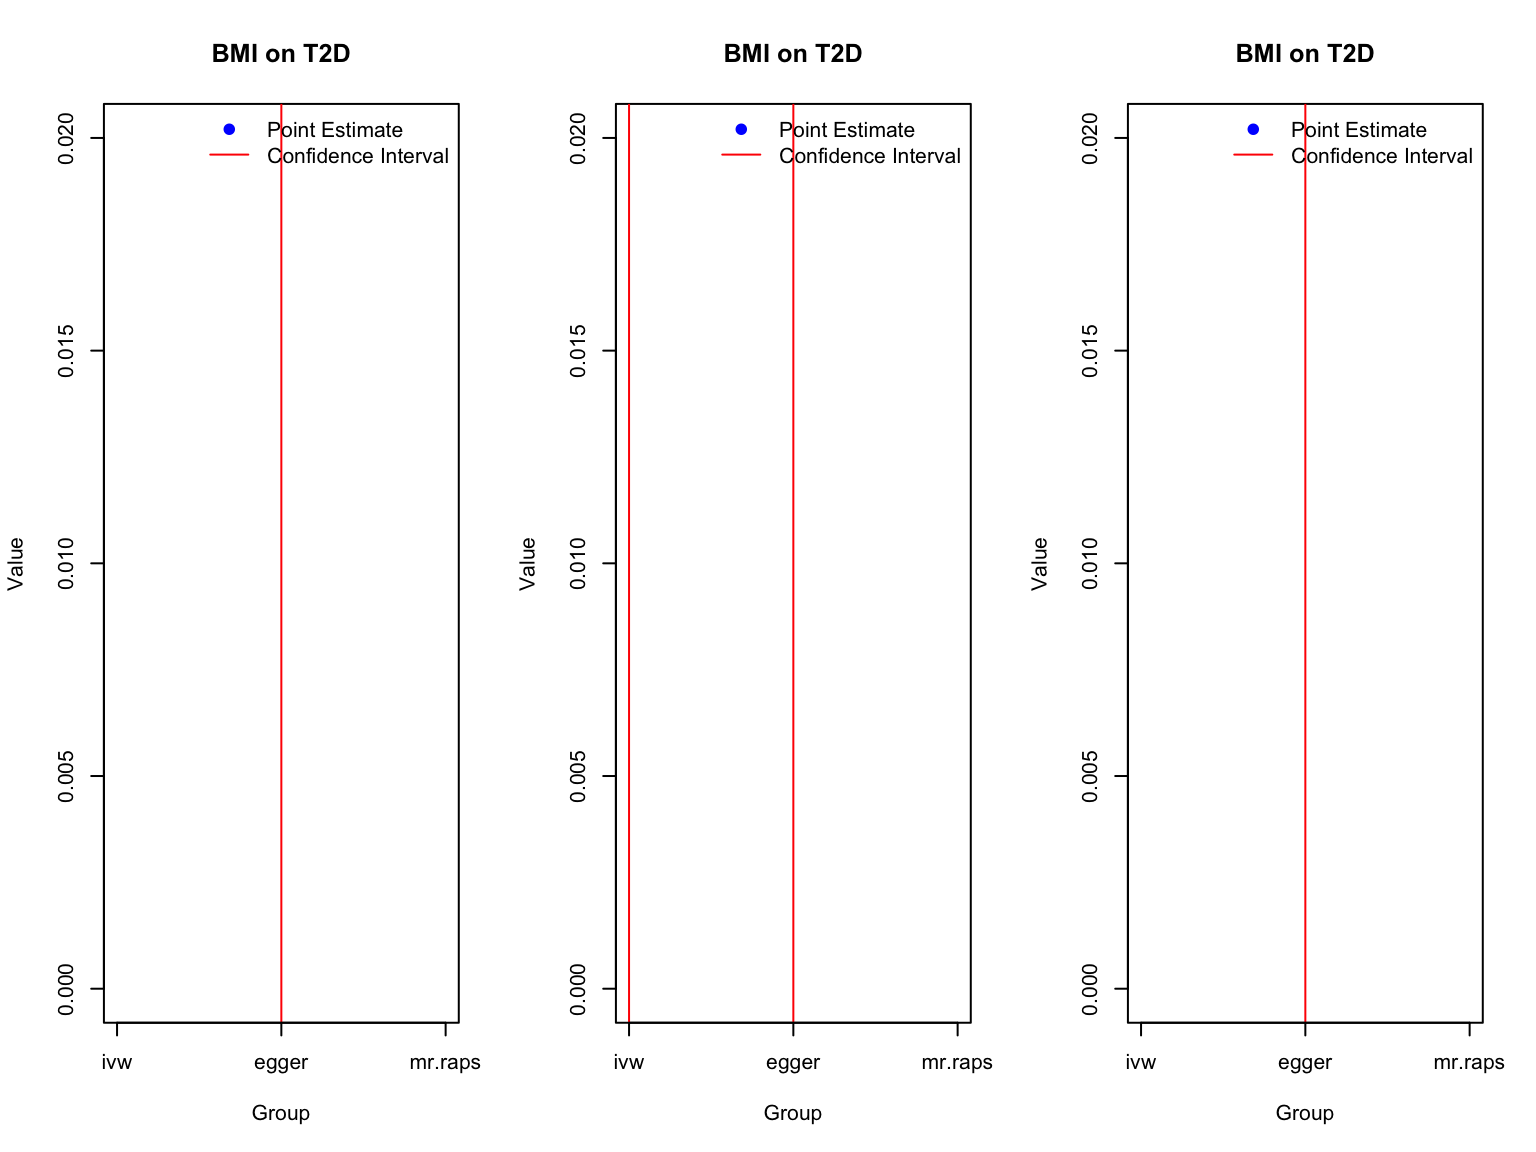
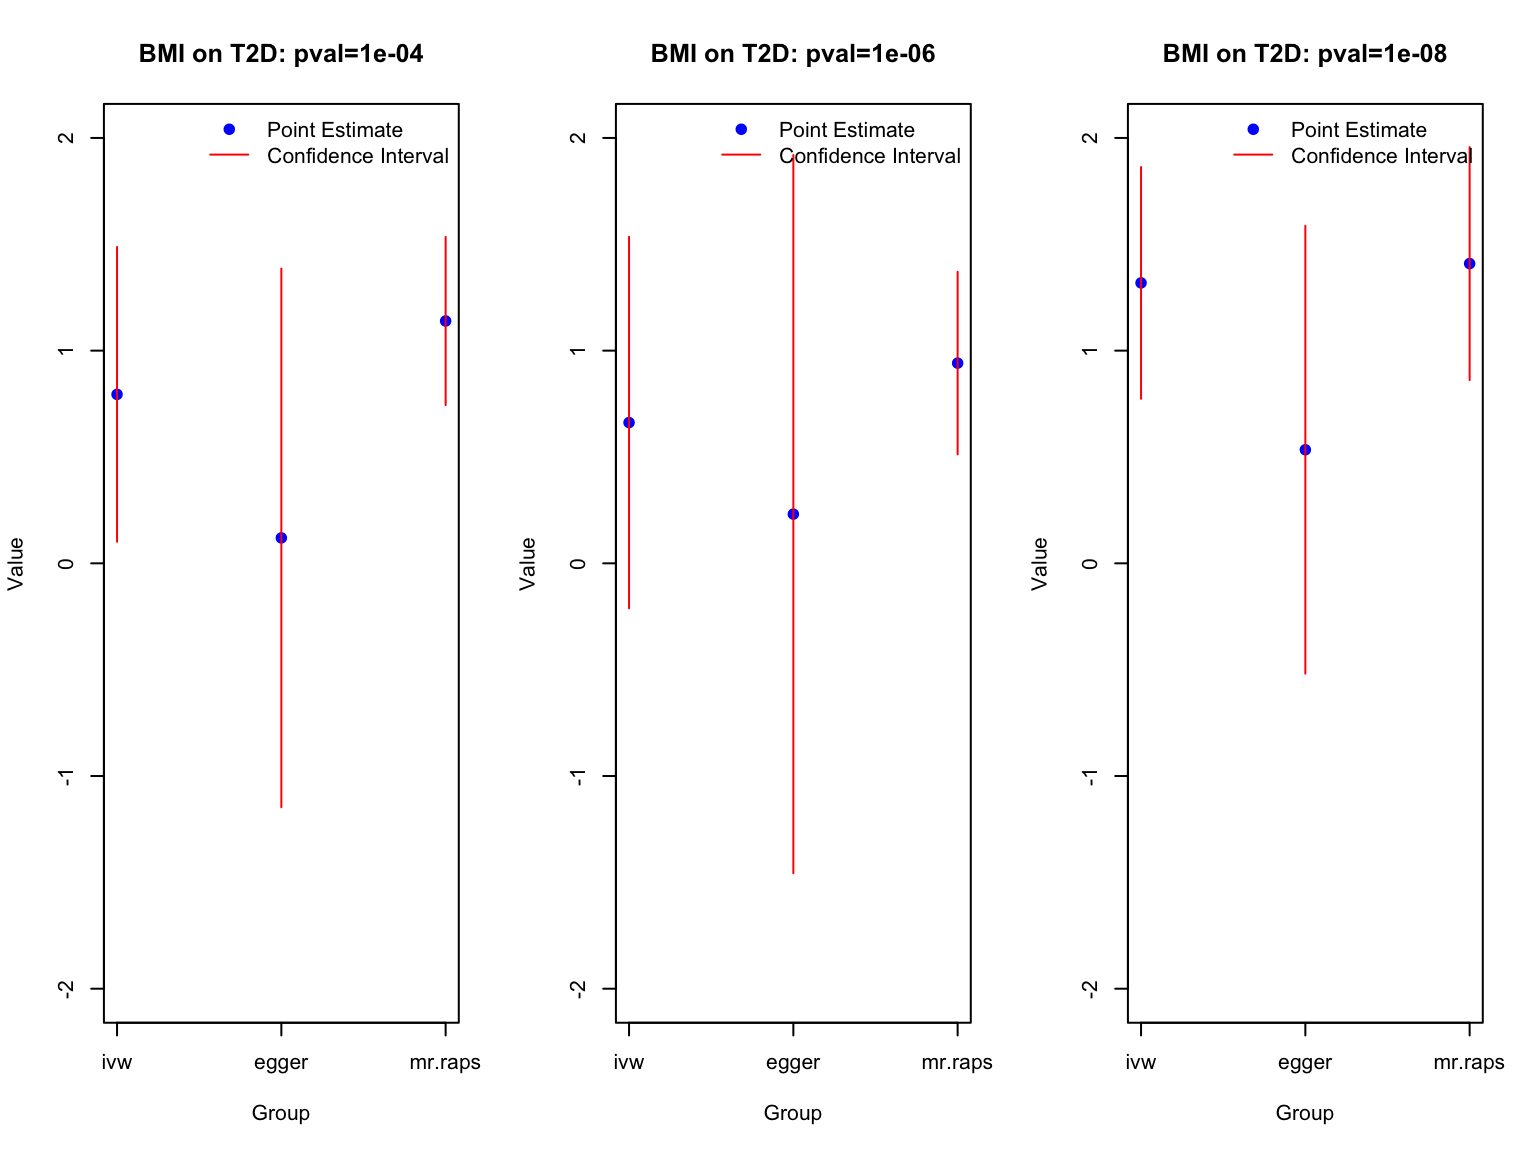
Build site.

diff --git a/docs/real_data_analysis.html b/docs/real_data_analysis.html
@@ -475,16 +475,16 @@ This reproducible <a href="http://rmarkdown.rstudio.com">R Markdown</a> analysis
 <div class="panel panel-default">
 <div class="panel-heading">
 <p class="panel-title">
-<a data-toggle="collapse" data-parent="#workflowr-checks" href="#strongRepositoryversionstrongahrefhttpsgithubcomyunqiyang0215simulationcalibratedmrtree8677c25cf3df336a054d9e6bd81535e5bea09bdbtargetblank8677c25a"> <span class="glyphicon glyphicon-ok text-success" aria-hidden="true"></span> <strong>Repository version:</strong> <a href="https://github.com/yunqiyang0215/simulation-calibrated-mr/tree/8677c25cf3df336a054d9e6bd81535e5bea09bdb" target="_blank">8677c25</a> </a>
+<a data-toggle="collapse" data-parent="#workflowr-checks" href="#strongRepositoryversionstrongahrefhttpsgithubcomyunqiyang0215simulationcalibratedmrtree07bcd641b688b07e79e46eef59ef4c157e38a637targetblank07bcd64a"> <span class="glyphicon glyphicon-ok text-success" aria-hidden="true"></span> <strong>Repository version:</strong> <a href="https://github.com/yunqiyang0215/simulation-calibrated-mr/tree/07bcd641b688b07e79e46eef59ef4c157e38a637" target="_blank">07bcd64</a> </a>
 </p>
 </div>
[2 lines of base64/hex data omitted]
 <div class="panel-body">
 <p>
 Great! You are using Git for version control. Tracking code development and connecting the code version to the results is critical for reproducibility.
 </p>
 <p>
-The results in this page were generated with repository version <a href="https://github.com/yunqiyang0215/simulation-calibrated-mr/tree/8677c25cf3df336a054d9e6bd81535e5bea09bdb" target="_blank">8677c25</a>. See the <em>Past versions</em> tab to see a history of the changes made to the R Markdown and HTML files.
+The results in this page were generated with repository version <a href="https://github.com/yunqiyang0215/simulation-calibrated-mr/tree/07bcd641b688b07e79e46eef59ef4c157e38a637" target="_blank">07bcd64</a>. See the <em>Past versions</em> tab to see a history of the changes made to the R Markdown and HTML files.
 </p>
 <p>
 Note that you need to be careful to ensure that all relevant files for the analysis have been committed to Git prior to generating the results (you can use <code>wflow_publish</code> or <code>wflow_git_commit</code>). workflowr only checks the R Markdown file, but you know if there are other scripts or data files that it depends on. Below is the status of the Git repository when the results were generated:
@@ -539,6 +539,40 @@ Message
 </tr>
 </thead>
 <tbody>
+<tr>
+<td>
+Rmd
+</td>
+<td>
+<a href="https://github.com/yunqiyang0215/simulation-calibrated-mr/blob/07bcd641b688b07e79e46eef59ef4c157e38a637/analysis/real_data_analysis.Rmd" target="_blank">07bcd64</a>
+</td>
+<td>
+yunqiyang0215
+</td>
+<td>
+2023-09-14
+</td>
+<td>
+wflow_publish("analysis/real_data_analysis.Rmd")
+</td>
+</tr>
+<tr>
+<td>
+html
+</td>
+<td>
+<a href="https://rawcdn.githack.com/yunqiyang0215/simulation-calibrated-mr/4e45bf645df18397b74ef2c8cfb9847d6665a421/docs/real_data_analysis.html" target="_blank">4e45bf6</a>
+</td>
+<td>
+yunqiyang0215
+</td>
+<td>
+2023-09-14
+</td>
+<td>
+Build site.
+</td>
+</tr>
 <tr>
 <td>
 html
@@ -690,7 +724,7 @@ for (i in 1:length(pval_threshold)){
   # Create a vector for group names (optional)
   groups &lt;- c(&quot;ivw&quot;, &quot;egger&quot;, &quot;mr.raps&quot;)
   plot(1:length(means), means, type = &quot;n&quot;, xaxt = &quot;n&quot;, ylim = c(min(ci.lower), max(ci.upper) + 0.1),
-         xlab = &quot;Group&quot;, ylab = &quot;Value&quot;, main = &quot;BMI on EA&quot;)
+         xlab = &quot;Group&quot;, ylab = &quot;Value&quot;, main = paste0(&quot;BMI on EA: pval=&quot;,pval_threshold[i]))
 
   points(1:length(means), means, pch = 19, col = &quot;blue&quot;)
 
@@ -781,8 +815,8 @@ for (i in 1:length(pval_threshold)){
     
   # Create a vector for group names (optional)
   groups &lt;- c(&quot;ivw&quot;, &quot;egger&quot;, &quot;mr.raps&quot;)
-  plot(1:length(means), means, type = &quot;n&quot;, xaxt = &quot;n&quot;, ylim = c(0, 0.02),
-         xlab = &quot;Group&quot;, ylab = &quot;Value&quot;, main = &quot;BMI on T2D&quot;)
+  plot(1:length(means), means, type = &quot;n&quot;, xaxt = &quot;n&quot;, ylim = c(-2, 2),
+         xlab = &quot;Group&quot;, ylab = &quot;Value&quot;, main = paste0(&quot;BMI on T2D: pval=&quot;,pval_threshold[i])) 
 
   points(1:length(means), means, pch = 19, col = &quot;blue&quot;)
 
@@ -873,8 +907,8 @@ for (i in 1:length(pval_threshold)){
     
   # Create a vector for group names (optional)
   groups &lt;- c(&quot;ivw&quot;, &quot;egger&quot;, &quot;mr.raps&quot;)
-  plot(1:length(means), means, type = &quot;n&quot;, xaxt = &quot;n&quot;, ylim = c(0, 0.02),
-         xlab = &quot;Group&quot;, ylab = &quot;Value&quot;, main = &quot;Height on EA&quot;)
+  plot(1:length(means), means, type = &quot;n&quot;, xaxt = &quot;n&quot;, ylim = c(-0.02, 0.1),
+         xlab = &quot;Group&quot;, ylab = &quot;Value&quot;, main = paste0(&quot;Height on EA: pval=&quot;,pval_threshold[i]))
 
   points(1:length(means), means, pch = 19, col = &quot;blue&quot;)
 
